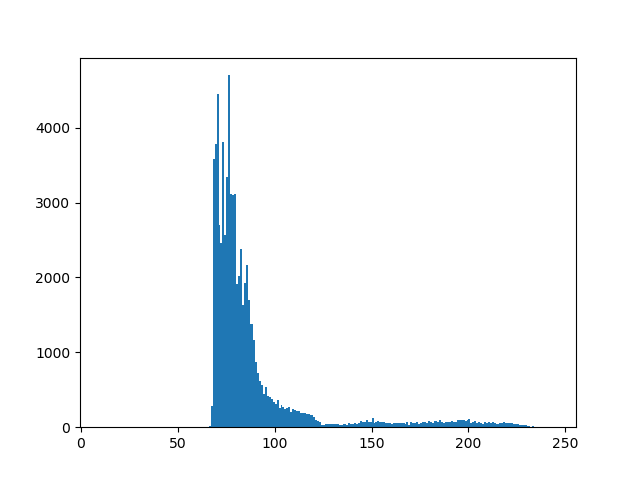
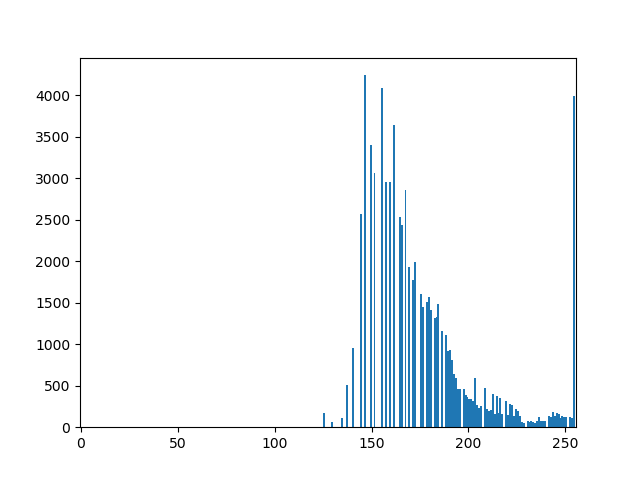
Histograma, gray scale e sepia

diff --git a/templates/index.html b/templates/index.html
@@ -307,9 +307,9 @@ Released   : 20130902
 						<div class="filter-form">						
 							<label class="label-filters">Channel: </label>
 							<select id="hsv-channel">
-								<option value="0">1</option>
-								<option value="1">2</option>
-								<option value="2">3</option>
+								<option value="0">H</option>
+								<option value="1">S</option>
+								<option value="2">V</option>
 							</select>
 							<br>
 							<br>
@@ -317,6 +317,26 @@ Released   : 20130902
 						</div>
 						<br>
 						<button class="filter-with-text" id="HSV_ajust" disabled="disabled">Do</button>
+					</li>
+					<li>
+						<strong>Equalize Histogram</strong>
+						<br />
+						<button class="filter" id="equalize_histogram" disabled="disabled">Do</button>
+					</li>
+					<li>
+						<strong>Gray Scale Mean</strong>
+						<br />
+						<button class="filter" id="gray_scale_mean" disabled="disabled">Do</button>
+					</li>
+					<li>
+						<strong>Gray Scale Mean Weighted</strong>
+						<br />
+						<button class="filter" id="gray_scale_mean_weigh" disabled="disabled">Do</button>
+					</li>
+					<li>
+						<strong>Sépia</strong>
+						<br />
+						<button class="filter" id="sepia" disabled="disabled">Do</button>
 					</li>
 					<li><a href="#" accesskey="3" title="">NOVO FILTRO</a></li>
 				</ul>
@@ -354,6 +374,14 @@ Released   : 20130902
 				    			HISTOGRAMA
 				    		</div>
 				    	<br>
+				    	<label><strong>Channel: </strong></label>
+							<select id="hsv-hist-channel" disabled="disabled" style="color: #fff">
+								<option value="0">R</option>
+								<option value="1">G</option>
+								<option value="2">B</option>
+								<option value="3">V</option>
+							</select>
+							<br>
 				    	<button id="calc-histogram" disabled="disabled">Calculate</button>
 				    	<br>
 				    	<br>

diff --git a/static/scripts/script.js b/static/scripts/script.js
@@ -139,6 +139,12 @@ $(function() { //shorthand document.ready function
                 $('.non-filter').attr('disabled', true);
                 $('#calc-histogram').attr('disabled', false);
 
+                if (colorful=='True'){
+                    $('#hsv-hist-channel').attr('disabled', false);
+                }else{
+                    $('#hsv-hist-channel').attr('disabled', true);
+                }
+
                 // Configurando gráfico
                 graph_width = graph.width; 
                 graph_height = graph.height;
@@ -268,14 +274,17 @@ $(function() { //shorthand document.ready function
 
     // Para calcular e exibir histograma da imagem
     $("#calc-histogram").click(function() {
-        // var formFilter = new FormData();
+        var formFilter = new FormData();
         // var id = this.id;
         // formFilter.append('filter', id); 
+        if (colorful=='True'){
+            formFilter.append('channel', $('#hsv-hist-channel').val());
+        }
 
         $.ajax({
-            type: "GET",
+            type: "POST",
             url: "/show_histogram",
-            //data: formFilter,
+            data: formFilter,
             processData: false,
                 contentType: false,
             success: function() {

diff --git a/Server.py b/Server.py
@@ -1,5 +1,6 @@
 from flask import Flask, render_template, request, redirect, jsonify, make_response
 from os import listdir, remove
+import cv2
 from os.path import isfile, join
 from matplotlib import pyplot as mpl
 from itertools import chain
@@ -29,8 +30,8 @@ path_actual = path_ + "actual/"
 path_histogram_img = path_ +  "histogram/"
 file_histogram_img = "hist-image.png"
 
-filters_with_args=["convolution", "mean", "median", "laplacian", "gaussian", "highboost", "two_points", "limit","geometric_mean","harmonic_mean","contraharmonic_mean","encode_msg","HSV_ajust"]
-filters_list = ["negative", "log", "power", "histogram", "convolution", "mean", "median", "laplacian", "gaussian", "highboost", "sobel", "two_points","limit","geometric_mean","harmonic_mean","contraharmonic_mean","gradient","encode_msg","HSV_ajust"]
+filters_with_args=["convolution", "mean", "median", "laplacian", "gaussian", "highboost", "two_points", "limit","geometric_mean","harmonic_mean","contraharmonic_mean","encode_msg","HSV_ajust","equalize_histogram"]
+filters_list = ["negative", "log", "power", "histogram", "convolution", "mean", "median", "laplacian", "gaussian", "highboost", "sobel", "two_points","limit","geometric_mean","harmonic_mean","contraharmonic_mean","gradient","encode_msg","HSV_ajust","equalize_histogram","gray_scale_mean","gray_scale_mean_weigh", "sepia"]
 non_filters_list = ["non-negative", "non-log", "non-power", "non-histogram", "non-convolution", "non-mean", "non-median", "non-laplacian", "non-gaussian", "non-highboost",  "non-sobel", "non-two_points","non-limit","non-geometric_mean","non-harmonic_mean","non-contraharmonic_mean"]
 
 global args 
@@ -150,9 +151,10 @@ def apply_filter():
 
 			# Salvando arquivo
 			if filter_ == 'encode_msg':
-				print(img_matrix)
-				print(type(img_matrix))
 				img_matrix.save(complete_path)
+
+			elif filter_ == 'equalize_histogram':
+				cv2.imwrite(complete_path,img_matrix) 
 
 			elif not is_img_colorful:
 				pi.saveImage(complete_path, img_matrix)
@@ -195,7 +197,7 @@ def remove_filter():
 	return json.dumps({'success':False, 'error':{'type':500, 'message':'Requisição incorreta!'}}),500 
 
 # Endpoint para calcular o histograma da imagem
-@app.route('/show_histogram', methods=['GET'])
+@app.route('/show_histogram', methods=['POST'])
 def show_histogram():
 	
 	# Pegando nome do arquivo
@@ -206,8 +208,21 @@ def show_histogram():
 	complete_filename = path_actual + file_
 	img_matrix = pi.readImage(complete_filename)
 
-	# Calculando histograma
-	counts, labels = pi.calculateHistogram(img_matrix)
+	# Img
+	if is_img_colorful:
+
+		channel = int(request.form['channel'])
+
+		if 0 <= channel and channel <=2:
+			print(channel)
+			counts, labels = pi.calculateRGBHistogram(img_matrix, channel)
+
+		else:
+			counts, labels = pi.calculateVHistogram(img_matrix)
+
+	else:
+		# Calculando histograma
+		counts, labels = pi.calculateHistogram(img_matrix)
 
 	# Gerando histograma
 	mpl.bar(labels[:-1] - 0.5, counts, width=1, edgecolor='none')

diff --git a/image_processing.py b/image_processing.py
@@ -1,6 +1,7 @@
 import numpy as np
 import math
 import copy
+import cv2
 from imread import imread
 from matplotlib import pyplot as mpl
 from PIL import Image 
@@ -1241,7 +1242,7 @@ def HSVtoRGB(img_matrix):
                 
             elif (b < 0.0):
                 b = 0
-                
+
             #r = r * 255
             #g = g * 255
             #b = b * 255
@@ -1342,3 +1343,92 @@ def calculateVHistogram(img):
     counts, labels = np.histogram(vals, range(257))
     
     return counts, labels
+
+
+''' Equalizar histogramas '''
+
+def equalizeHistogram(filename):
+
+    img = cv2.imread(filename)
+    img_to_yuv = cv2.cvtColor(img,cv2.COLOR_BGR2YUV)
+    img_to_yuv[:,:,0] = cv2.equalizeHist(img_to_yuv[:,:,0])
+    hist_equalization_result = cv2.cvtColor(img_to_yuv, cv2.COLOR_YUV2BGR)
+    return hist_equalization_result
+
+''' ALGORITMOS DE ESCALA DE CINZA '''
+
+def grayScaleMean(img):
+    
+    new_m = img.copy()
+    
+    rows = len(img)
+    cols = len(img[0])
+    
+    for i in range(rows):
+        for j in range(cols):
+            
+            new_value = (img[i][j][0] + img[i][j][1] + img[i][j][2])/3
+            new_m[i][j][0] = new_value
+            new_m[i][j][1] = new_value
+            new_m[i][j][2] = new_value
+            
+    return np.asarray(new_m, dtype ='uint8')
+
+def grayScaleMeanWeigh(img):
+    
+    new_m = img.copy()
+    
+    rows = len(img)
+    cols = len(img[0])
+    
+    for i in range(rows):
+        for j in range(cols):
+            
+            new_value = img[i][j][0] * 0.3 + img[i][j][1] * 0.59 + img[i][j][2] * 0.11
+            new_m[i][j][0] = new_value
+            new_m[i][j][1] = new_value
+            new_m[i][j][2] = new_value
+            
+    return np.asarray(new_m, dtype ='uint8')
+
+''' SEPIA '''
+def sepia(img):
+    
+    new_m = img.copy()
+    
+    rows = len(img)
+    cols = len(img[0])
+    
+    for i in range(rows):
+        for j in range(cols):
+            
+            r = img[i][j][0] 
+            g = img[i][j][1]
+            b = img[i][j][2]
+            
+            tr = int(0.393 * r + 0.769 * g + 0.189 * b)
+            tg = int(0.349 * r + 0.686 * g + 0.168 * b)
+            tb = int(0.272 * r + 0.534 * g + 0.131 * b)
+            
+            if tr > 255:
+                r = 255 
+            else: 
+                r = tr
+                
+            if tg > 255: 
+                g = 255 
+            
+            else: 
+                g = tg
+                
+            if tb > 255:
+                b = 255 
+                
+            else: 
+                b = tb
+            
+            new_m[i][j][0] = r
+            new_m[i][j][1] = g
+            new_m[i][j][2] = b
+            
+    return np.asarray(new_m, dtype ='uint8')

diff --git a/utils.py b/utils.py
@@ -79,13 +79,21 @@ def applyFilter(filter_, img_matrix, args, is_img_colorful):
 		img_matrix = pi.filterEncodeMsg(img, args['encode_msg']['msg'])
 
 	elif filter_ == 'HSV_ajust':
-		print('entrou')
 		img_matrix = pi.RGBtoHSV(img_matrix)
-		print('passou do RGB TO HSV')
 		img_matrix = pi.applyPercentChannelHSV(img_matrix,  args['HSV_ajust']['channel'], args['HSV_ajust']['percent'])
-		print('passou do apply percent')
 		img_matrix = pi.HSVtoRGB(img_matrix)
-		print('passou do HSV to rgb')
+
+	elif filter_ == 'equalize_histogram':
+		img_matrix = pi.equalizeHistogram(filename)
+
+	elif filter_ == 'gray_scale_mean':
+		img_matrix = pi.grayScaleMean(img_matrix)
+
+	elif filter_ == 'gray_scale_mean_weigh':
+		img_matrix = pi.grayScaleMeanWeigh(img_matrix)
+
+	elif filter_ == 'sepia':
+		img_matrix = pi.sepia(img_matrix)
 
 	return img_matrix
 
@@ -121,6 +129,7 @@ def checkMatrixIsSquare(matrix):
 # Tratamento para salvar argumentos
 def saveArgs(filter_, request, args, complete_filename):
 
+	global filename
 	if(filter_ == "convolution"): 
 
 		# Checando se texto pode ser transformado em matriz 
@@ -232,7 +241,6 @@ def saveArgs(filter_, request, args, complete_filename):
  			return json.dumps({'success':False}), 500
 
 		args['encode_msg'] = {'msg':msg}
-		global filename
 		filename = complete_filename
 
 	elif (filter_ == 'HSV_ajust'):
@@ -241,5 +249,8 @@ def saveArgs(filter_, request, args, complete_filename):
 		print(channel)
 		print(percent)
 		args['HSV_ajust'] = {'channel':channel, 'percent':percent}
+
+	elif (filter_ == 'equalize_histogram'):
+		filename = complete_filename
 
 	return args
